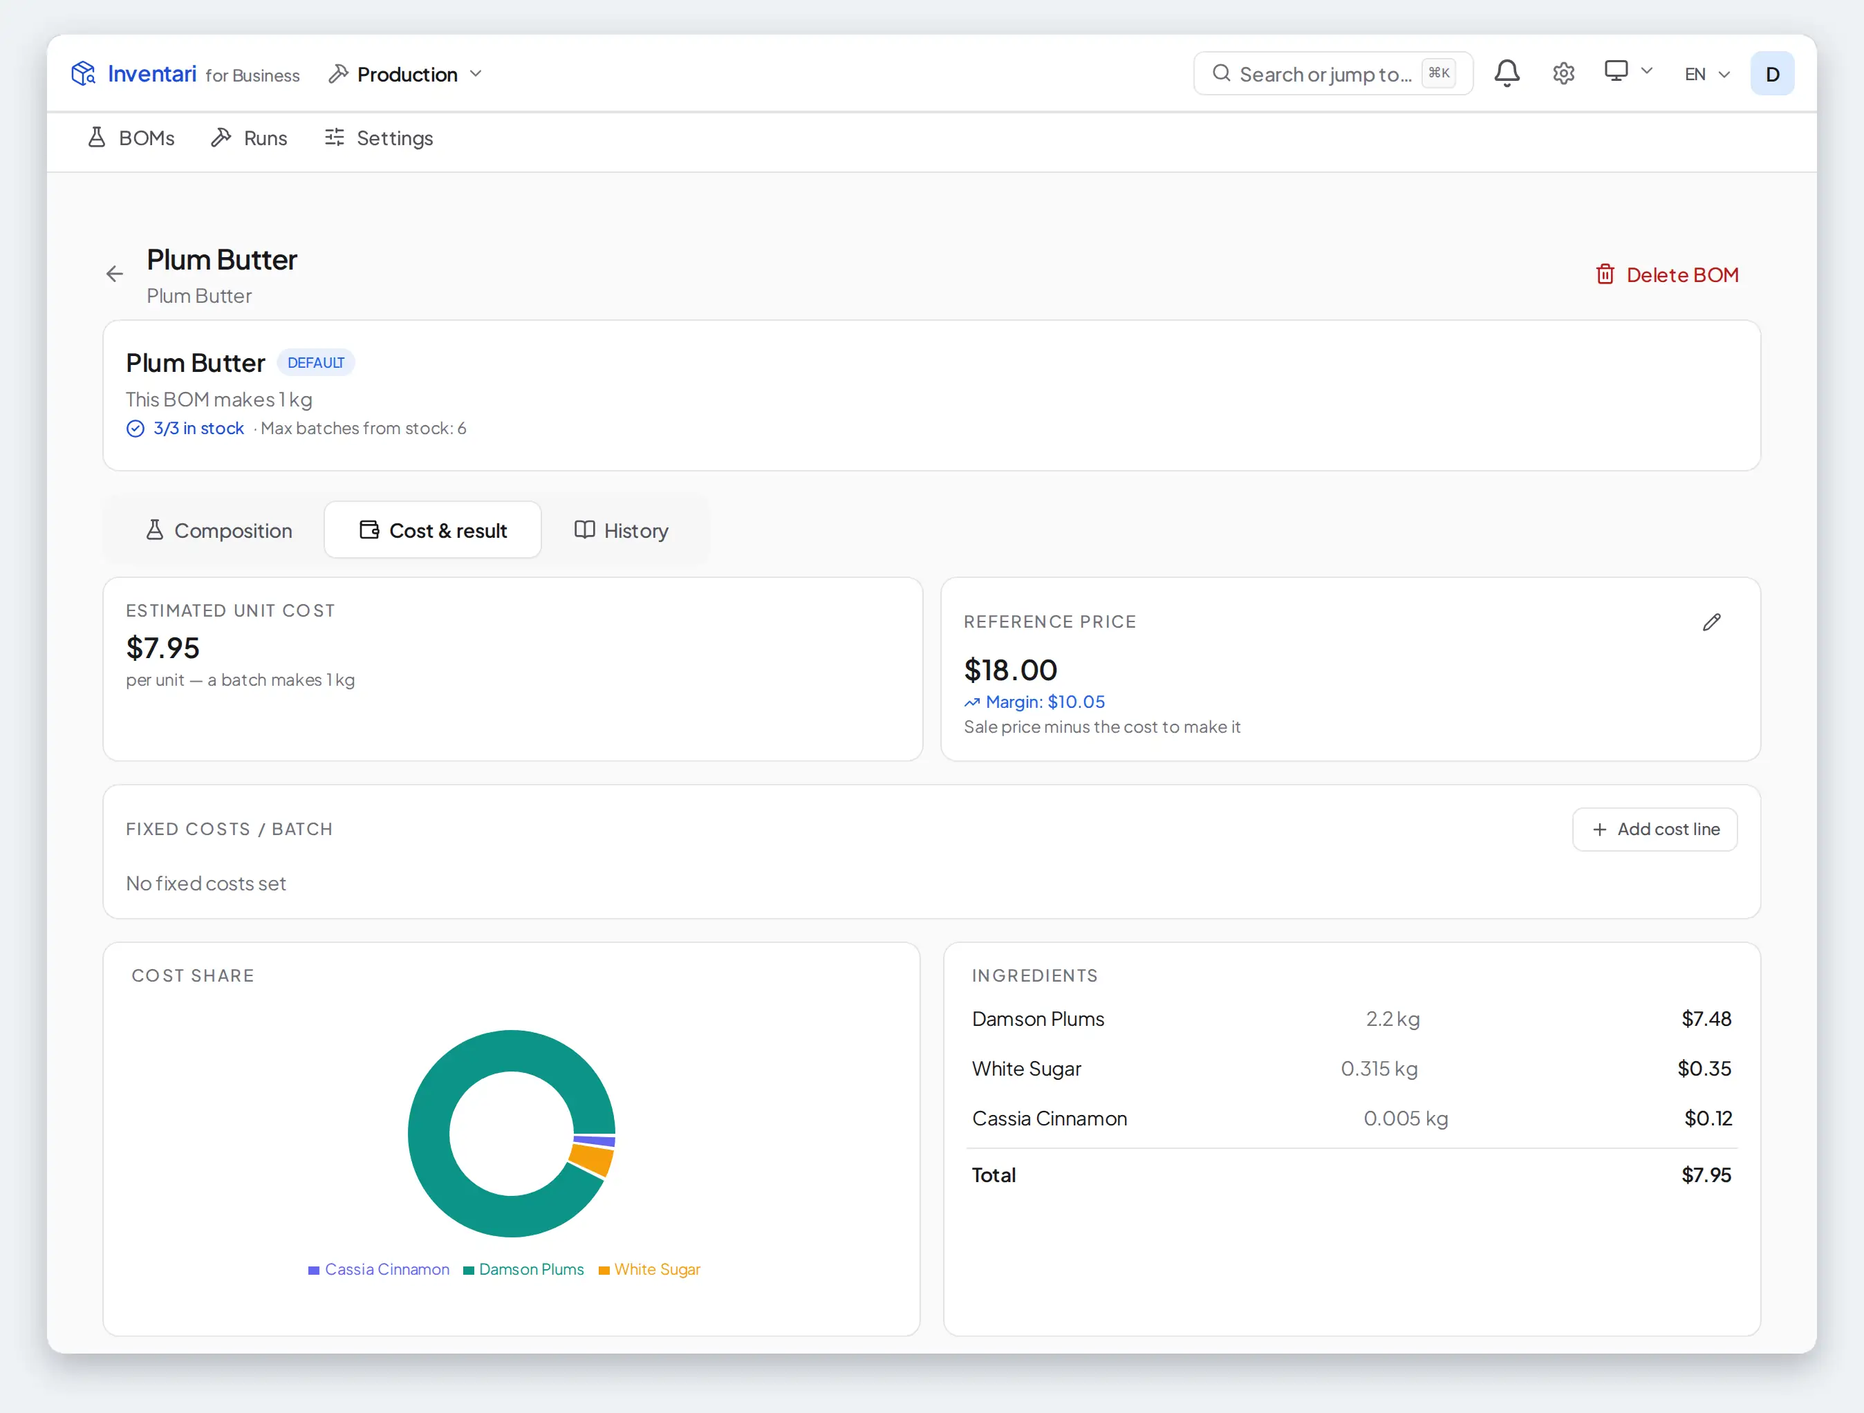
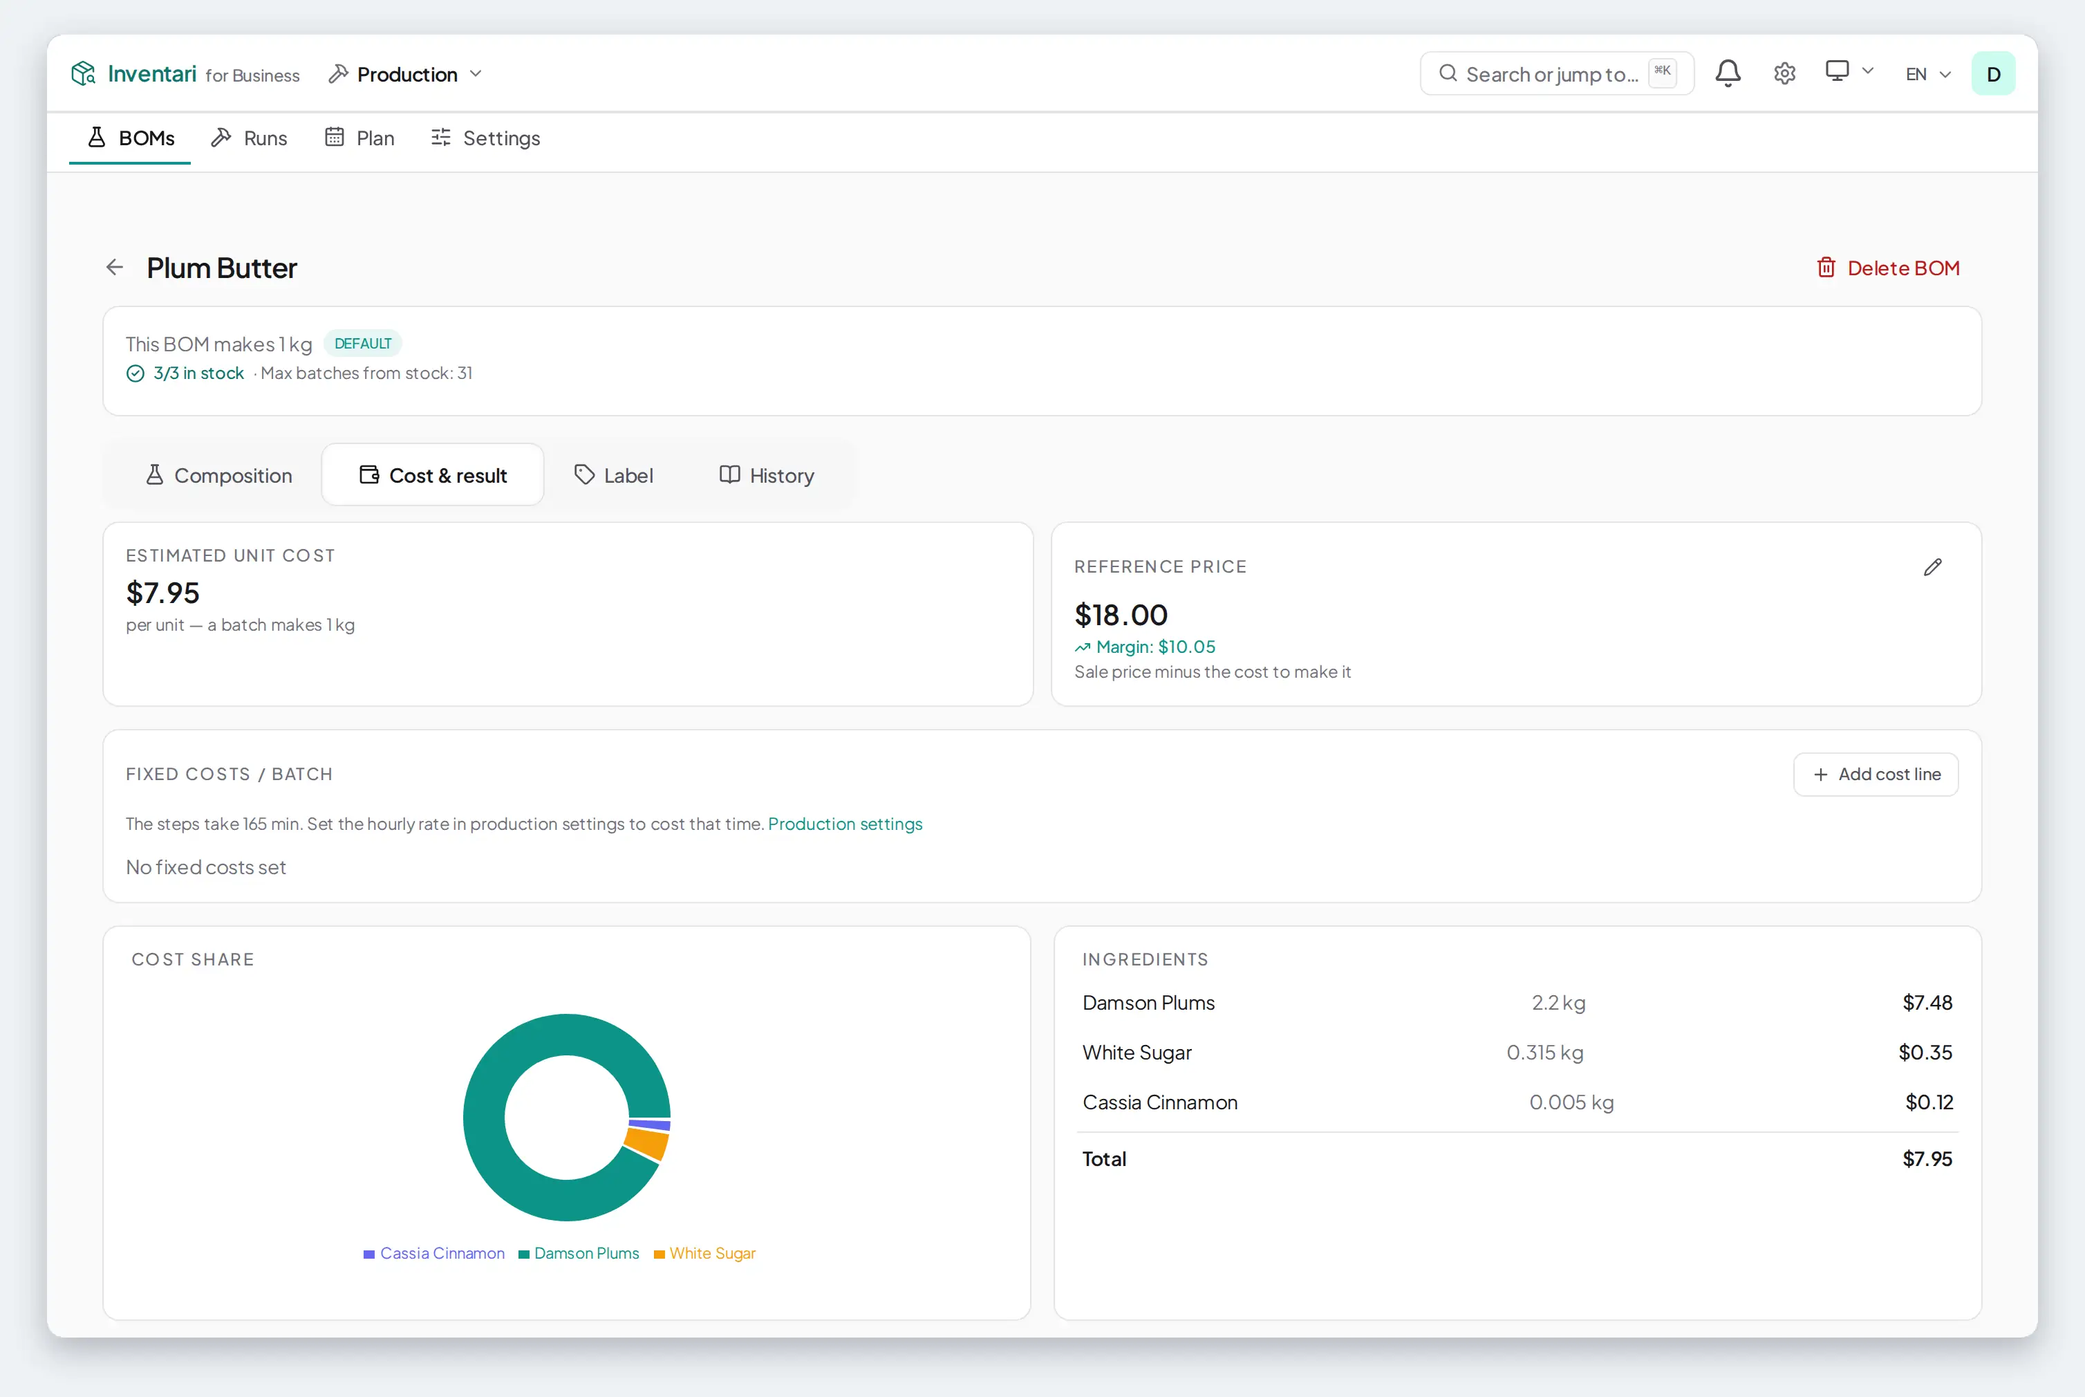
docs: show the production screens in teal, plan and batch included
The three production pictures were the 0.11.0 frames in blue and showed
neither the Plan screen nor a run under way. Production now has twelve
frames from the demo seed in the application's teal: the plan of a week
with one run partly covered and the list of what it needs, the run list,
a run in progress with its steps and its first portion, a finished run
with its batch, the batch labels, the batch record and the Label and Cost
tabs of a BOM. The gallery lists them, and the user guide gains a
paragraph on the Plan screen and carries the frames beside the sections
they illustrate.

diff --git a/docs/USER_GUIDE.md b/docs/USER_GUIDE.md
@@ -439,7 +439,7 @@ yet.
 **Inventory → Labels** keeps a pool of printed QR codes that you stick on
 things before or after they go into Inventari.
 
-![The label pool: twelve printed QR labels, six of them already on equipment in use — a Dell laptop, an APC UPS, a Cisco access point, a Cisco switch, a Dell server and a Dell desktop — and six printed and still free for products](images/labels.webp)
+![The label pool: twelve printed QR labels, six of them already on equipment in use — a Dell desktop, a Cisco access point, an APC UPS, a Dell server, a Dell laptop and a Cisco switch — and six printed and still free for products](images/labels.webp)
 
 - **Generate Labels**: how many (up to 500), a prefix of up to five letters or
   digits (`STM` unless you change it, giving codes such as `STM-4F2A`), and an
@@ -680,7 +680,7 @@ counts the ingredient in another measure, so no comparison is made) — with the
 shelf it stands on and a warning when it is close to its date. The servings control rescales the view,
 nutrition and cost without changing the recipe.
 
-![Shakshuka: its photograph, an estimated cost of $10.73, two servings in 25 minutes and eggs as its allergen; each ingredient with the shelf it is on — eggs in the fridge, the tomatoes and the olive oil on shelves — the onion missing, and a button that puts what is missing on the shopping list](images/recipe.webp)
+![Shakshuka: its photograph, an estimated cost of $10.44, two servings in 25 minutes and eggs as its allergen; each ingredient with the shelf it is on — eggs in the walk-in cooler, the tomatoes and the olive oil on shelves — the onion missing, and a button that puts what is missing on the shopping list](images/recipe.webp)
 
 - **Link to product** tells Inventari which product an ingredient is. Stock
   checks, cost and taking from stock work only for linked ingredients (or ones
@@ -764,7 +764,7 @@ together.
 network gear, servers — with who has them, where they are, their warranty and
 their book value.
 
-![The equipment overview: nine assets need attention — warranties ending within weeks and a server in maintenance — above the totals, 77 assets with four checked out, and the fleet by category as bars: laptops, network devices, monitors, peripherals, desktop computers and other equipment, each with its size and, in colour, the share that is checked out or has a warranty ending soon](images/equipment-overview.webp)
+![The equipment overview: ten assets need attention — warranties ending within weeks and a server in maintenance — above the totals, 84 assets with four checked out, and the fleet by category as bars: network devices, laptops, phones and tablets, servers, peripherals and desktop computers, each with its size and, in colour, the share that is checked out or has a warranty ending soon](images/equipment-overview.webp)
 
 ### 9.1 The tabs
 
@@ -782,7 +782,7 @@ their book value.
 - **Attestations** — asking people to confirm they still have what they hold.
 - **Settings** (administrators).
 
-![The asset register sorted by warranty, soonest first: 77 assets, each with its serial number, location, who holds it, its warranty — expired, expiring or active, with the date — and its status](images/equipment-assets.webp)
+![The asset register sorted by warranty, soonest first: 84 assets, each with its serial number, location, who holds it, its warranty — expired, expiring or active, with the date — and its status](images/equipment-assets.webp)
 
 ### 9.2 Adding an asset
 
@@ -1649,6 +1649,17 @@ uses the product's default BOM). Enter the quantity and where the output goes.
 
 ![The list of production runs: a completed batch of plum butter planned at 12 kg, with its cost of $95.36 and a margin of $109.90](images/production-runs.webp)
 
+**Production → Plan** shows the planned runs of a week or a month by day (a list
+by day on a phone). **Move** puts a run on another day. Each run says whether
+the shelf, and the runs planned before it, cover what it needs — **Covered**,
+**Partly covered** or **Short** — and under the calendar one list adds up
+everything the runs need: how much is needed, in stock, on order and still
+missing. **Order what is missing** raises the purchase orders for it.
+
+![The production plan for 23–29 November: three runs of plum butter, 8, 12 and 10 kg, planned for the 23rd, 24th and 25th and marked Covered, and a run of 12 kg on the 27th marked Partly covered, above the list of what the planned runs need — 13.23 kg of sugar against 10.07 kg in stock, 3.16 kg missing — with the Order what is missing button](images/production-plan.webp)
+
+![The production plan on a phone: the planned plum butter runs of the week listed by day, each with its coverage, and under them what the runs need and what is missing](images/production-plan-phone.webp)
+
 **Complete run** takes the materials off the shelves and puts the product into
 stock at the target location. You may enter the quantity actually produced; the
 materials used are always the full planned amount. A quantity above the plan is
@@ -1675,6 +1686,12 @@ still counted in the stock value, so the warehouse does not look poorer while
 the batch matures. **Cancel run** on a run in progress gives the materials back
 to the batches they came from — unless it has already put portions on the
 shelf, in which case finish it instead.
+
+![A production run in progress: 10 kg of plum butter started on 20 November with $79.47 taken so far, two of its four steps ticked with the day each was done, the first 4 kg already on a shelf in the batch DAMSON-A, and the damson plums, sugar and cinnamon it took at their FIFO cost](images/production-run-in-progress.webp)
+
+![The same run in progress in dark mode](images/production-run-in-progress-dark.webp)
+
+![A run in progress on a phone: the plum butter run with its cost so far, its output batch DAMSON-A and the buttons to finish, cancel or duplicate it](images/production-run-in-progress-phone.webp)
 
 ![A finished production run in dark mode: 11.4 kg of plum butter made from a 12 kg plan with 0.6 kg of scrap, a total cost of $95.36 and a margin of $109.90, the damson plums, sugar and cinnamon it consumed at their FIFO cost, and the stock moves it made](images/production-run-dark.webp)
 
@@ -1718,6 +1735,12 @@ A finished run shows its batch with the day it was made and its best-before:
 - **Photos and files** — **Add a file** files a photo or a document under the
   run, up to 10 MB, in the types a product's attachments take.
 
+![A finished production run: 11.4 kg of plum butter made from a 12 kg plan, a total cost of $95.36 and a margin of $109.90, and the output batch 20261122-1 with the day it was made, its best-before date and the buttons Print batch labels, Batch record and Quarantine](images/production-run.webp)
+
+![The Batch labels dialog of the plum butter batch with Ingredients and allergens ticked: the ingredient list and may contain nuts under the name, the batch code in bars, the day it was made and the best-before date](images/production-batch-labels.webp)
+
+![The batch record of the plum butter run PR/2026/0001: the batch, the day it was made, planned and made quantity, each ingredient with the quantity taken and its cost, the costs, who planned and who closed the run and the notes](images/production-batch-record.webp)
+
 At home the run speaks of jars: **Print jar labels**, and a best-before date.
 The batch code is still assigned and printed, but no screen asks for it.
 
@@ -1752,6 +1775,8 @@ The **Label** tab of a BOM computes the made product's label from it:
   Health Info** section), per 100 g of what one batch yields: give the BOM's yield
   in a weight, or the product's weight per piece. An ingredient without a
   figure is named and the figure shown as not known — never counted as zero.
+
+![The Label tab of the plum butter BOM: the ingredients, heaviest first; no allergen named by an ingredient's card; may contain nuts, declared on the product; and the nutrition declaration per 100 g — 956 kJ / 228 kcal, 0.7 g fat, 57 g carbohydrate, 53.3 g sugars, 1.6 g protein](images/production-bom-label.webp)
 
 Every part is computed, and the screens say it is yours to check before it
 goes on a package. On the label sheet of a made product, or of its batch, tick
@@ -1849,7 +1874,7 @@ a link to the source code; the rest is for administrators.
 **Log retention (days)** says otherwise.
 - **Approvals** and **Statistics** — the settings of those modules.
 
-![The demo's module store: twelve of the fifteen modules switched on — partners, approvals, equipment tracking, production, nutrition info, label printing, purchase orders, recipes, shopping lists, statistics, stock takes and the warehouse — with API keys, photo recognition and webhooks left off; each with its version, where it comes from and what it needs: stored data, files, background tasks or internet access](images/app-store.webp)
+![The demo's module store: thirteen of the fifteen modules switched on — partners, API keys, approvals, equipment tracking, production, nutrition info, label printing, purchase orders, recipes, shopping lists, statistics, stock takes and the warehouse — with photo recognition and webhooks left off; each with its version, where it comes from and what it needs: stored data, files, background tasks or internet access](images/app-store.webp)
 
 ---
 

diff --git a/docs/GALLERY.md b/docs/GALLERY.md
@@ -74,7 +74,7 @@ arrived.
 
 ## Equipment
 
-![The asset register sorted by warranty, soonest first: 77 assets, each with its serial number, location, who holds it, its warranty — expired, expiring or active, with the date — and its status](images/equipment-assets.webp)
+![The asset register sorted by warranty, soonest first: 84 assets, each with its serial number, location, who holds it, its warranty — expired, expiring or active, with the date — and its status](images/equipment-assets.webp)
 
 **Assets** — serials, locations, warranties and who signed for what.
 
@@ -101,17 +101,46 @@ up to.
 
 ## Production
 
-![The list of production runs: a completed batch of plum butter planned at 12 kg, with its cost of $95.36 and a margin of $109.90](images/production-runs.webp)
+![The production plan for 23–29 November: three runs of plum butter, 8, 12 and 10 kg, planned for the 23rd, 24th and 25th and marked Covered, and a run of 12 kg on the 27th marked Partly covered, above the list of what the planned runs need — 13.23 kg of sugar against 10.07 kg in stock, 3.16 kg missing — with the Order what is missing button](images/production-plan.webp)
 
-**Production runs** — what was made, what it cost and what it was worth.
+**Production plan** — the planned runs by day, each saying whether the shelf
+and the runs before it cover it, and everything they need in one list, with a
+button that orders what is missing.
+
+![The list of production runs as cards: four planned runs of plum butter, three covered and one partly covered, one run in progress with $79.47 taken so far in the batch DAMSON-A, and one completed run of 12 kg with its cost of $95.36 and a margin of $109.90](images/production-runs.webp)
+
+**Production runs** — what is planned, what is under way, what was made, what
+it cost and what it was worth.
+
+![A production run in progress: 10 kg of plum butter started on 20 November with $79.47 taken so far, two of its four steps ticked with the day each was done, the first 4 kg already on a shelf in the batch DAMSON-A, and the damson plums, sugar and cinnamon it took at their FIFO cost](images/production-run-in-progress.webp)
+
+**A run in progress** — the ingredients are off the shelves, the steps are
+ticked with their days and the output comes in portions, each in a batch of its
+own.
+
+![A finished production run: 11.4 kg of plum butter made from a 12 kg plan, a total cost of $95.36 and a margin of $109.90, and the output batch 20261122-1 with the day it was made, its best-before date and the buttons Print batch labels, Batch record and Quarantine](images/production-run.webp)
+
+**A finished run** — its batch, with the labels, the batch record and a hold one
+click away.
+
+![The Batch labels dialog of the plum butter batch with Ingredients and allergens ticked: the ingredient list and may contain nuts under the name, the batch code in bars, the day it was made and the best-before date](images/production-batch-labels.webp)
+
+**Batch labels** — one label per unit made, with the ingredient list and the
+allergens when the label is large enough for them.
+
+![The batch record of the plum butter run PR/2026/0001: the batch, the day it was made, planned and made quantity, each ingredient with the quantity taken and its cost, the costs, who planned and who closed the run and the notes](images/production-batch-record.webp)
+
+**Batch record** — one page for the batch, to print on A4 or read on a phone.
+
+![The Label tab of the plum butter BOM: the ingredients, heaviest first; no allergen named by an ingredient's card; may contain nuts, declared on the product; and the nutrition declaration per 100 g — 956 kJ / 228 kcal, 0.7 g fat, 57 g carbohydrate, 53.3 g sugars, 1.6 g protein](images/production-bom-label.webp)
+
+**The label of a BOM** — the ingredient list, the allergens and the nutrition
+declaration, computed from the ingredients' cards.
 
 ![The cost of a plum butter BOM: $7.95 a unit against a reference price of $18.00, a margin of $10.05, and each ingredient's share of the cost](images/production-recipe-cost.webp)
 
 **BOM cost** — the cost of a unit from the prices of its ingredients,
 against a reference price.
-
-The README shows the finished run in dark mode: what went in at its FIFO
-cost, what came out, and every shelf it touched.
 
 ## Stock takes
 

diff --git a/README.md b/README.md
@@ -284,12 +284,12 @@ USB or Bluetooth scanner and as a QR code for a phone camera.
 The same core under an IT desk, a kitchen and a workshop — three of the
 modules the demo seed switches on beside the warehouse.
 
-![The equipment overview: nine assets need attention — warranties ending within weeks and a server in maintenance — above the totals, 77 assets with four checked out, and the fleet by category as bars: laptops, network devices, monitors, peripherals, desktop computers and other equipment, each with how many are checked out or have a warranty ending soon](docs/images/equipment-overview.webp)
+![The equipment overview: ten assets need attention — warranties ending within weeks and a server in maintenance — above the totals, 84 assets with four checked out, and the fleet by category as bars: network devices, laptops, phones and tablets, servers, peripherals and desktop computers, each with how many are checked out or have a warranty ending soon](docs/images/equipment-overview.webp)
 
 **Equipment** — what needs attention first, then the whole fleet by category;
 serials, warranties, maintenance and who signed for what are a click below.
 
-![Shakshuka: its photograph, an estimated cost of $10.73, two servings in 25 minutes and eggs as its allergen; each ingredient with the shelf it is on — eggs in the fridge, the tomatoes and the olive oil on shelves — the onion missing, and a button that puts what is missing on the shopping list](docs/images/recipe.webp)
+![Shakshuka: its photograph, an estimated cost of $10.44, two servings in 25 minutes and eggs as its allergen; each ingredient with the shelf it is on — eggs in the walk-in cooler, the tomatoes and the olive oil on shelves — the onion missing, and a button that puts what is missing on the shopping list](docs/images/recipe.webp)
 
 **A recipe** — which ingredients are in the house and where each one is; the
 missing ones go onto the shopping list.
@@ -306,7 +306,7 @@ touches on the server. What you do not switch on, you do not see: the
 wholesaler above runs the business modules its launcher shows, the demo almost
 all of them.
 
-![The demo's module store: twelve of the fifteen modules switched on — partners, approvals, equipment tracking, production, nutrition info, label printing, purchase orders, recipes, shopping lists, statistics, stock takes and the warehouse — with API keys, photo recognition and webhooks left off; each with its version, where it comes from and what it needs: stored data, files, background tasks or internet access](docs/images/app-store.webp)
+![The demo's module store: thirteen of the fifteen modules switched on — partners, API keys, approvals, equipment tracking, production, nutrition info, label printing, purchase orders, recipes, shopping lists, statistics, stock takes and the warehouse — with photo recognition and webhooks left off; each with its version, where it comes from and what it needs: stored data, files, background tasks or internet access](docs/images/app-store.webp)
 
 ### In the dark
 
